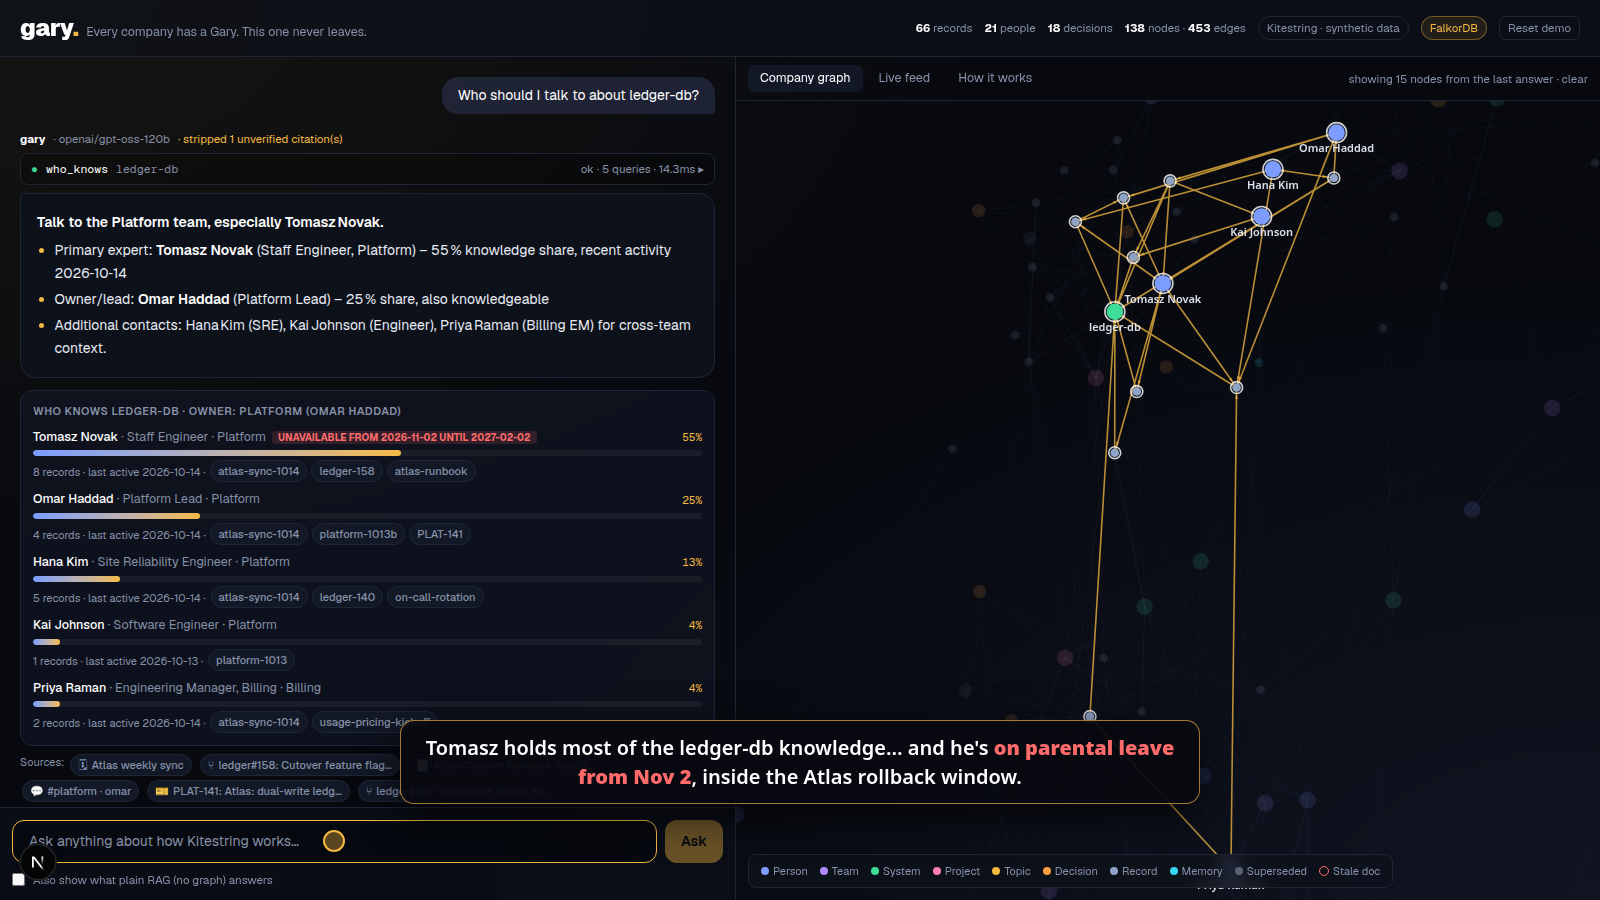
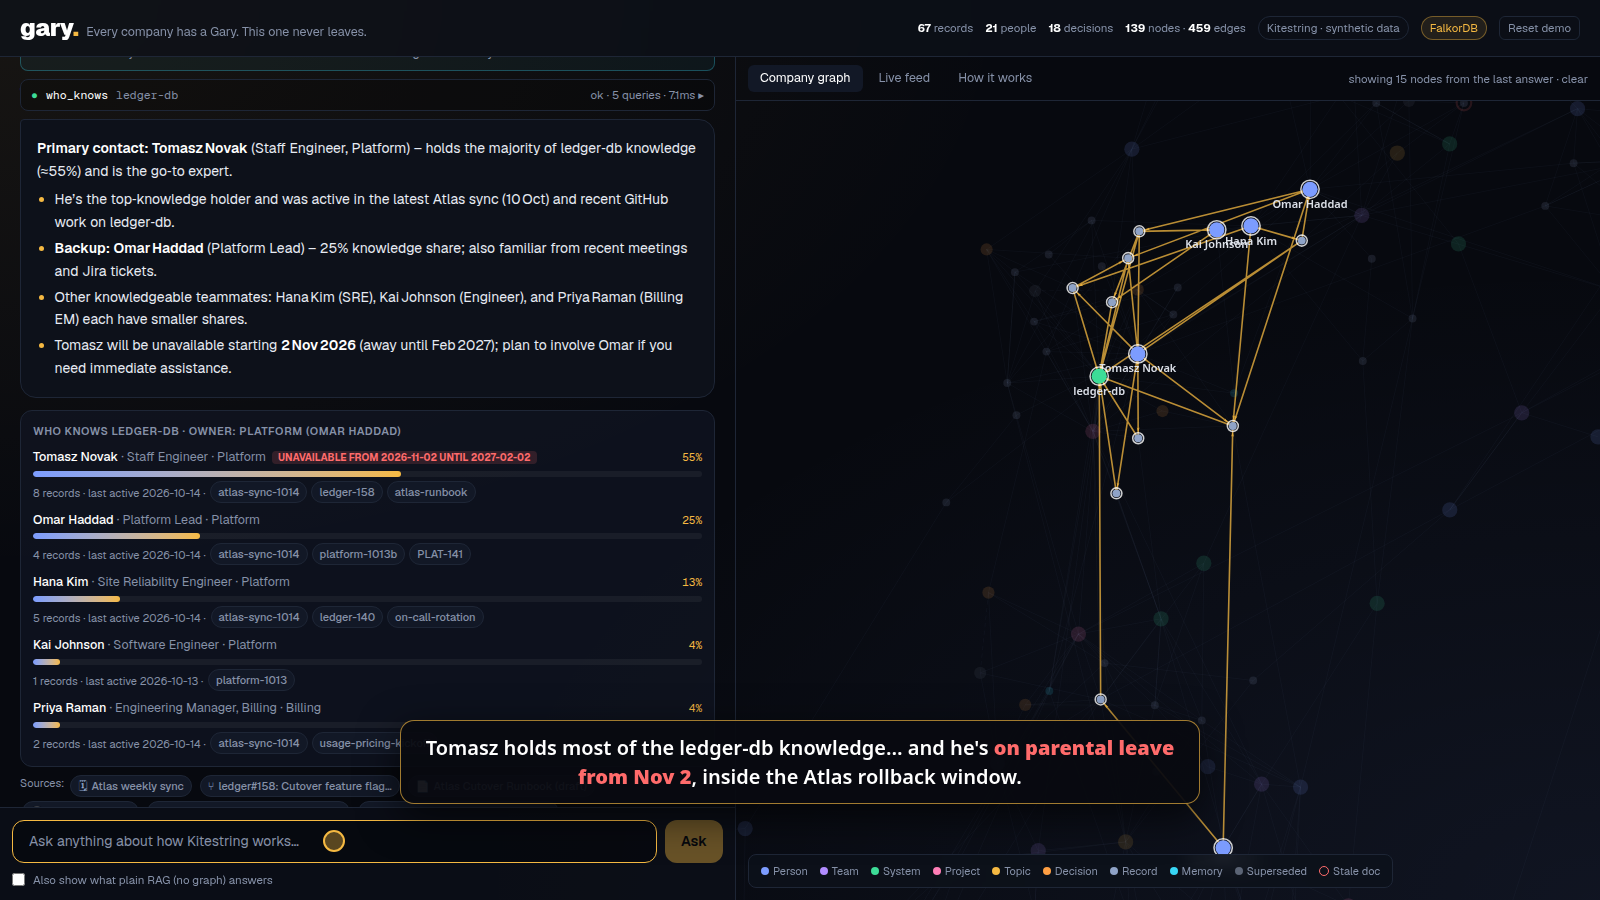
Hallucination guard: reject answers naming people/teams absent from the graph
Citations alone can't catch an invented 'Priya Patel': every capitalised name pair
and hyphenated proper noun must exist in the graph vocabulary or this turn's tool
results, else the answer is rebuilt from graph rows (and the UI says so).
Catch-up and risk radar now return graph-computed backups so the model never
has to guess one.

diff --git a/lib/agent.ts b/lib/agent.ts
@@ -8,7 +8,7 @@ export type AgentEvent =
   | { type: "memory"; memories: Memory[] }
   | { type: "tool"; id: string; name: string; args: Record<string, unknown> }
   | { type: "result"; id: string; name: string; outcome: ToolResult["outcome"]; queries: QueryLog[]; nodes: string[]; data: unknown }
-  | { type: "answer"; text: string; citations: Citation[]; invalidCitations: string[]; model: string; grounded: boolean; nodes: string[] };
+  | { type: "answer"; text: string; citations: Citation[]; invalidCitations: string[]; model: string; grounded: boolean; nodes: string[]; rebuilt: string[] };
 
 export interface Citation {
   key: string;
@@ -31,6 +31,7 @@ Rules:
 - Cite record keys from tool results (evidence, decided_in, key fields such as [github:ledger-158] or [decision:billing-0812c-1]) ONLY in square brackets right after each claim. Never cite tool names or person/team/system keys, e.g. [slack:billing-0812c] [decision:billing-0812c-1]. Never invent keys, people, dates or numbers.
 - If a tool returns unknown_subject, you may retry ONCE with a shorter subject (e.g. one of "similar") or use search. If still nothing, say plainly it is not in the company graph. Never name a team, owner or person that no tool returned.
 - If a recommended person is on_leave/away, say so and name a backup.
+- Only name owners, experts or backups that decision_lineage, who_knows, profile, risk_radar or catch_up returned. Search results are keyword matches: never infer owners or people from them.
 - When a decision replaced older ones, say what changed and when. Flag stale docs that still state old decisions, and name their authors.
 - Only call open_ticket or remember when the user explicitly asks you to act or remember.
 - Be concise: a direct answer first, then 2-5 short bullet points. Plain markdown, no tables.
@@ -45,7 +46,7 @@ export async function* runAgent(question: string, history: Turn[], session: stri
 
   // Memory first: anything Gary learned in earlier sessions about the subjects in this question,
   // flagged if a decision it relied on has since been superseded.
-  const subjects = await subjectsIn(tx, question);
+  const { keys: subjects, vocab: graphVocab } = await subjectsIn(tx, question);
   const memories = await recall(tx, subjects);
   if (memories.length) yield { type: "memory", memories };
   const memoryText = memories.length
@@ -105,10 +106,17 @@ export async function* runAgent(question: string, history: Turn[], session: stri
 
   const allowed = new Set(results.flatMap((r) => r.result.cites));
   let grounded = true;
+  let rebuilt: string[] = [];
   if (!finalText) {
     finalText = composeFromRows(results);
-    grounded = true;
     model = llmFailed ? "graph-only (LLM unavailable)" : model;
+  } else {
+    const vocab = new Set([...graphVocab, ...words(JSON.stringify(results.map((r) => r.result.data))), ...words(question)]);
+    rebuilt = inventedNames(finalText, vocab);
+    if (rebuilt.length) {
+      grounded = false;
+      finalText = composeFromRows(results);
+    }
   }
 
   // Validate: every cited key must come from a tool result in this turn.
@@ -141,13 +149,49 @@ export async function* runAgent(question: string, history: Turn[], session: stri
   if (results.some((r) => r.result.outcome === "ok" && !["open_ticket", "remember"].includes(r.name)))
     await saveEpisode(tx, { session, question, answer: finalText, subjects: [...new Set([...subjects, ...results.flatMap((r) => r.result.nodes.filter((n) => /^(person|team|system|project|topic):/.test(n)))])].slice(0, 6), decisions: valid.filter((k) => k.startsWith("decision:")).concat(nodes.filter((n) => n.startsWith("decision:"))) }).catch(() => {});
 
-  yield { type: "answer", text: finalText.trim(), citations, invalidCitations: invalid, model, grounded, nodes };
+  yield { type: "answer", text: finalText.trim(), citations, invalidCitations: invalid, model, grounded, nodes, rebuilt };
 }
 
-async function subjectsIn(tx: Tracer, question: string): Promise<string[]> {
-  const rows = await tx.ro<{ key: string; name: string; aliases: string[] }>("memory.subjects", `MATCH (n:Entity) WHERE NOT n:Company RETURN n.key AS key, n.name AS name, n.aliases AS aliases`);
+export async function subjectsIn(tx: Tracer, question: string): Promise<{ keys: string[]; vocab: Set<string> }> {
+  const rows = await tx.ro<{ key: string; name: string; aliases: string[]; extra: string | null }>(
+    "memory.subjects",
+    `MATCH (n:Entity) WHERE NOT n:Company RETURN n.key AS key, n.name AS name, n.aliases AS aliases, coalesce(n.role, n.about) AS extra`,
+  );
   const q = question.toLowerCase();
-  return rows.filter((r) => [r.name, ...(r.aliases ?? [])].some((t) => t.length > 2 && new RegExp(`(?<![\\w-])${t.toLowerCase().replace(/[.*+?^${}()|[\]\\]/g, "\\$&")}(?![\\w-])`).test(q))).map((r) => r.key);
+  const keys = rows.filter((r) => [r.name, ...(r.aliases ?? [])].some((t) => t.length > 2 && new RegExp(`(?<![\\w-])${t.toLowerCase().replace(/[.*+?^${}()|[\]\\]/g, "\\$&")}(?![\\w-])`).test(q))).map((r) => r.key);
+  const vocab = new Set(words(rows.map((r) => `${r.name} ${(r.aliases ?? []).join(" ")} ${r.extra ?? ""}`).join(" ")));
+  return { keys, vocab };
+}
+
+const words = (s: string) => s.toLowerCase().match(/[a-z][a-z0-9]+/g) ?? [];
+
+// Plain-English capitalised words that may legitimately start a phrase ("Bottom Line", "Next Steps").
+const COMMON = new Set(
+  `a an the yes no not key points point bottom line next steps step primary secondary contact contacts owner owners owned backup backups current currently policy note notes
+  evidence other others summary short answer answers action actions item items open question questions why what who whom how when where which today tl dr also however therefore
+  so if and or but for with since until from to of on in at by about after before during talk reach ask ping start check update updates use see stale docs doc document
+  documents decision decisions lineage risk risks radar team teams people person expert experts knowledge share records record active replaced superseded monthly annual plans
+  plan refund refunds window days day weeks week months month quick takeaway takeaways overview details detail status timeline history context recommendation recommendations
+  suggested suggestion important warning caveat sources source slack jira notion github meeting meetings ticket tickets thread threads channel help center playbook handbook
+  engineering product follow ups up follow-up you your we our they their he she his her it its this that these those there here is are was were be been being has have had`.split(/\s+/),
+);
+const MONTHS = new Set("january february march april may june july august september october november december jan feb mar apr jun jul aug sep sept oct nov dec monday tuesday wednesday thursday friday saturday sunday".split(" "));
+
+// Guard against invented people/teams: every capitalised name pair (and hyphenated proper noun) must exist in the
+// graph vocabulary or in this turn's tool results. Citations alone can't catch a made-up "Priya Patel".
+export function inventedNames(text: string, vocab: Set<string>): string[] {
+  const clean = text.replace(/\[[^\]]+\]/g, " ").replace(/[*_`#>|]/g, " ");
+  const known = (w: string) => vocab.has(w) || COMMON.has(w) || MONTHS.has(w);
+  const out = new Set<string>();
+  for (const m of clean.matchAll(/\b([A-Z][a-z]+)\s+([A-Z][a-z]+)\b/g)) {
+    const [a, b] = [m[1].toLowerCase(), m[2].toLowerCase()];
+    if (COMMON.has(b) && (COMMON.has(a) || vocab.has(a))) continue;
+    if (!known(a) || !known(b)) out.add(`${m[1]} ${m[2]}`);
+  }
+  for (const m of clean.matchAll(/\b([A-Z][a-z]+(?:-[A-Z][a-z]+)+)\b/g)) {
+    if (m[1].toLowerCase().split("-").some((w) => !known(w))) out.add(m[1]);
+  }
+  return [...out];
 }
 
 function route(q: string): [string, Record<string, unknown>] {

diff --git a/lib/tools.ts b/lib/tools.ts
@@ -283,7 +283,11 @@ async function search(tx: Tracer, { query }: { query: string }): Promise<ToolRes
   );
   return {
     outcome: rows.length ? "ok" : "empty",
-    data: { query, results: rows.map((r) => ({ key: r.key, kind: r.kind, title: r.title, date: day(r.at), author: r.author, excerpt: clip(r.text, 200) })) },
+    data: {
+      query,
+      note: "Keyword matches only. If none of these records directly answers the question, say it is not in the company graph. Never infer owners from them.",
+      results: rows.map((r) => ({ key: r.key, kind: r.kind, title: r.title, date: day(r.at), author: r.author, excerpt: clip(r.text, 200) })),
+    },
     nodes: rows.map((r) => r.key),
     cites: rows.map((r) => r.key),
   };
@@ -321,7 +325,7 @@ async function connect(tx: Tracer, { from, to }: { from: string; to: string }): 
 
 async function riskRadar(tx: Tracer): Promise<ToolResult> {
   // Same expertise weighting as who_knows, for every system/project at once; subjects with little activity are skipped.
-  const concentration = await tx.ro<{ key: string; name: string; top: string; topKey: string; share: number; knowers: number; records: number; awayFrom: number | null }>(
+  const concentration = await tx.ro<{ key: string; name: string; top: string; topKey: string; share: number; knowers: number; records: number; awayFrom: number | null; next: string | null }>(
     "risk.knowledge_concentration",
     `MATCH (s:Entity) WHERE s:System OR s:Project
      MATCH (src:Source)-[:MENTIONS|CHANGES]->(s)
@@ -333,9 +337,9 @@ async function riskRadar(tx: Tracer): Promise<ToolResult> {
      WITH s, p, w, n ORDER BY w DESC
      WITH s, collect({name: p.name, key: p.key, w: w, away: p.away_from}) AS ppl, sum(w) AS total, sum(n) AS records
      WHERE records >= 4
-     WITH s, ppl[0] AS top, total, size(ppl) AS knowers, records
+     WITH s, ppl[0] AS top, ppl[1] AS next, total, size(ppl) AS knowers, records
      WHERE top.w / total >= 0.4
-     RETURN s.key AS key, s.name AS name, top.name AS top, top.key AS topKey, top.w / total AS share, knowers, records, top.away AS awayFrom
+     RETURN s.key AS key, s.name AS name, top.name AS top, top.key AS topKey, top.w / total AS share, knowers, records, top.away AS awayFrom, next.name AS next
      ORDER BY (top.w / total) * CASE WHEN top.away IS NULL THEN 1.0 ELSE 2.0 END DESC LIMIT 5`,
   );
   const brokers = await tx.ro<{ key: string; name: string; score: number }>(
@@ -368,6 +372,7 @@ async function riskRadar(tx: Tracer): Promise<ToolResult> {
         people_involved: c.knowers,
         records: c.records,
         main_knower_away_from: day(c.awayFrom),
+        next_best_knower: c.next,
       })),
       upcoming_absences: away.map((a) => ({ person: a.name, from: day(a.from), to: day(a.to) })),
       knowledge_brokers_betweenness: brokers.map((b) => ({ person: b.name, betweenness: +b.score.toFixed(1) })),

diff --git a/app/page.tsx b/app/page.tsx
@@ -22,7 +22,7 @@ interface Msg {
   text: string;
   steps: Step[];
   memories?: any[];
-  answer?: { citations: Cite[]; model: string; grounded: boolean; invalidCitations: string[] };
+  answer?: { citations: Cite[]; model: string; grounded: boolean; invalidCitations: string[]; rebuilt?: string[] };
   compare?: { text: string; docs: { key: string; title: string }[]; model: string } | "loading";
   pending?: boolean;
 }
@@ -133,7 +133,7 @@ export default function Home() {
             }
             if (ev.type === "answer") {
               ev.citations.forEach((c: Cite) => cites.current.set(c.key, c));
-              patch((m) => ({ ...m, text: ev.text, pending: false, answer: { citations: ev.citations, model: ev.model, grounded: ev.grounded, invalidCitations: ev.invalidCitations } }));
+              patch((m) => ({ ...m, text: ev.text, pending: false, answer: { citations: ev.citations, model: ev.model, grounded: ev.grounded, invalidCitations: ev.invalidCitations, rebuilt: ev.rebuilt } }));
               setHighlight(ev.nodes);
             }
             if (ev.type === "error") patch((m) => ({ ...m, text: `Something went wrong: ${ev.message}`, pending: false }));
@@ -227,7 +227,11 @@ export default function Home() {
                     {m.answer && (
                       <>
                         <span>· {m.answer.model}</span>
-                        <span className={m.answer.grounded ? "text-good" : "text-accent"}>· {m.answer.grounded ? "✓ all citations verified against the graph" : `stripped ${m.answer.invalidCitations.length} unverified citation(s)`}</span>
+                        {m.answer.rebuilt?.length ? (
+                          <span className="text-accent">· ⚠ model named {m.answer.rebuilt.join(", ")} (not in the graph), so the answer was rebuilt from graph rows</span>
+                        ) : (
+                          <span className={m.answer.grounded ? "text-good" : "text-accent"}>· {m.answer.grounded ? "✓ all citations verified against the graph" : `stripped ${m.answer.invalidCitations.length} unverified citation(s)`}</span>
+                        )}
                       </>
                     )}
                   </div>

diff --git a/lib/catchup.ts b/lib/catchup.ts
@@ -64,6 +64,24 @@ export async function catchUp(tx: Tracer, args: { since?: string; days?: number;
     { since: sinceMs },
   );
 
+  // Backups come from the graph, not the model: the next-best knowers on what each absent person works on most.
+  const backups = new Map<string, { subject: string; backups: string[] }[]>();
+  for (const a of absences) {
+    const rows = await tx.ro<{ subject: string; backups: string[] }>(
+      "catch_up.backups",
+      `MATCH (p:Person {key:$k})-[:AUTHORED|ASSIGNED|REVIEWED]->(src:Source)-[:MENTIONS|CHANGES]->(s)
+       WHERE s:System OR s:Project
+       WITH p, s, count(DISTINCT src) AS n ORDER BY n DESC LIMIT 2
+       MATCH (o:Person)-[:AUTHORED|ASSIGNED|REVIEWED|ATTENDED|REPORTED]->(src2:Source)-[:MENTIONS|CHANGES]->(s)
+       WHERE o <> p
+       WITH s, o, count(DISTINCT src2) AS m ORDER BY m DESC
+       WITH s, collect(o.name)[0..2] AS backups
+       RETURN s.name AS subject, backups`,
+      { k: a.key },
+    );
+    backups.set(a.key, rows);
+  }
+
   return {
     outcome: decisions.length || tickets.length ? "ok" : "empty",
     data: {
@@ -80,7 +98,7 @@ export async function catchUp(tx: Tracer, args: { since?: string; days?: number;
         decided_in: d.src,
       })),
       open_tickets: tickets,
-      people_going_away: absences.map((a) => ({ person: a.name, from: day(a.from), to: day(a.to) })),
+      people_going_away: absences.map((a) => ({ person: a.name, from: day(a.from), to: day(a.to), suggested_backups_by_subject: backups.get(a.key) ?? [] })),
     },
     nodes: [...(person ? [person.key] : []), ...decisions.flatMap((d) => [d.key, ...d.aboutKeys]), ...tickets.map((t) => t.key), ...absences.map((a) => a.key)],
     cites: [...decisions.map((d) => d.key), ...decisions.map((d) => d.src).filter((s): s is string => !!s), ...tickets.map((t) => t.key)],

diff --git a/app/components/Cards.tsx b/app/components/Cards.tsx
@@ -127,7 +127,10 @@ export function ToolCards({ name, data, onCite, onAsk }: { name: string; data: a
           {data.single_points_of_knowledge?.map((r: any) => (
             <div key={r.key} className="flex flex-wrap items-center gap-1.5">
               <span className="font-medium text-white">{r.subject}</span>
-              <span className="text-muted">→ {r.main_knower} holds {r.share}</span>
+              <span className="text-muted">
+                → {r.main_knower} holds {r.share}
+                {r.next_best_knower ? `, next: ${r.next_best_knower}` : ""}
+              </span>
               {r.main_knower_away_from && <span className="rounded bg-bad/15 px-1.5 text-[10px] font-bold text-bad">AWAY FROM {r.main_knower_away_from}</span>}
             </div>
           ))}
@@ -172,7 +175,12 @@ export function ToolCards({ name, data, onCite, onAsk }: { name: string; data: a
             </div>
           )}
           {data.people_going_away?.length > 0 && (
-            <div className="text-[11.5px] text-muted">Going away: {data.people_going_away.map((a: any) => `${a.person} from ${a.from}`).join(" · ")}</div>
+            <div className="text-[11.5px] text-muted">
+              Going away:{" "}
+              {data.people_going_away
+                .map((a: any) => `${a.person} from ${a.from}${a.suggested_backups_by_subject?.length ? ` (backups: ${a.suggested_backups_by_subject.map((b: any) => `${b.subject} → ${b.backups.join(", ")}`).join("; ")})` : ""}`)
+                .join(" · ")}
+            </div>
           )}
         </div>
       </Box>

diff --git a/scripts/ask.ts b/scripts/ask.ts
@@ -10,7 +10,7 @@ async function main() {
     if (ev.type === "tool") console.log(`🔧 ${ev.name}(${JSON.stringify(ev.args)})`);
     if (ev.type === "result") console.log(`   → ${ev.outcome}: ${ev.queries.map((q) => `${q.label} ${q.rows}r ${q.ms}ms`).join(" | ")}`);
     if (ev.type === "answer") {
-      console.log(`\n💬 [${ev.model}${ev.grounded ? "" : ", ungrounded citations stripped: " + ev.invalidCitations.join(",")}]\n${ev.text}`);
+      console.log(`\n💬 [${ev.model}${ev.rebuilt.length ? ", REBUILT (invented: " + ev.rebuilt.join(", ") + ")" : ""}${ev.invalidCitations.length ? ", stripped: " + ev.invalidCitations.join(",") : ""}]\n${ev.text}`);
       console.log("\n📎", ev.citations.map((c) => `${c.key} (${c.kind})`).join(", "));
     }
   }

diff --git a/README.md b/README.md
@@ -36,7 +36,7 @@ Every one of these is about **relationships, not text**. A vector index cannot k
 | **Knowledge from multiple sources** | 5 connectors (Slack, Jira, Notion + help center, meetings, GitHub) become `Source` nodes. Authors, reviewers, assignees and attendees become edges. Mentions are linked with a gazetteer read *from the graph itself*. |
 | **Ownership and expertise** | `who_knows` ranks people by recency-weighted, role-weighted traversal (`AUTHORED`, `ASSIGNED`, `REVIEWED`...) and also returns the owning team and lead. It flags people who are about to be on leave. |
 | **Decision lineage** | Decisions are extracted with *graph context* (the LLM sees the currently active decisions) into `(:Decision)-[:SUPERSEDES]->(:Decision)` chains with `DECIDED_IN`, `MADE` and `BECAUSE_OF` edges, traversed with `SUPERSEDES*1..6`. |
-| **Current knowledge** | The live feed ingests a new message. If it contains a decision, older ones are superseded and **every living doc that still `ASSERTS` the old decision is flagged stale**. Memories that relied on it are flagged **outdated**. |
+| **Current knowledge** | `catch_up` answers "what did I miss since…" per person. The live feed ingests a new message. If it contains a decision, older ones are superseded and **every living doc that still `ASSERTS` the old decision is flagged stale**. Memories that relied on it are flagged **outdated**. |
 | **Sourced answers** | Every citation in the answer must be a key returned by a tool in this turn; anything else is stripped. Each answer shows the exact Cypher, params, row counts and timings. |
 
 **Plus:**
@@ -53,7 +53,8 @@ Every one of these is about **relationships, not text**. A vector index cannot k
 4. **"What are our biggest knowledge risks right now?"** Knowledge concentration per system/project, upcoming absences, betweenness-central knowledge brokers and stale docs.
 5. **"Why is usage-based pricing launching Dec 1?"** Multi-hop: Dec 1 replaced Nov 15 because the Atlas ledger cutover is Oct 28, which moved there because of the SOC2 audit change freeze.
 6. **Live feed:** post the preset "CEO changes the refund policy again". Gary extracts a new decision and supersedes the 14-day one. Ask question 1 again: the old memories are marked **OUTDATED** and the answer changes.
-7. **"Who owns the mobile app?"** The answer is **not in the graph**. Gary resolves names strictly, so "mobile app" never silently becomes `web-app`.
+7. **"I'm Priya, back from 3 weeks off. What did I miss?"** `catch_up` scopes recent decisions, reversals, open tickets and absences to Priya's part of the graph (what her team owns and what she has touched).
+8. **"Who owns the mobile app?"** The answer is **not in the graph**. Gary resolves names strictly, so "mobile app" never silently becomes `web-app`.
 
 ## Architecture
 
@@ -65,7 +66,7 @@ Every one of these is about **relationships, not text**. A vector index cannot k
  GitHub ┘   LLM decision extraction  ◄─context── │ Doc ─ASSERTS─► Decision  Finding (mem) │
             (active decisions from the graph)    └────────────▲───────────────────────────┘
                                                               │ parameterised Cypher only
- Question ─► memory recall ─► LLM picks tool(s) ─► Tool catalogue (9) ─► rows ─► answer
+ Question ─► memory recall ─► LLM picks tool(s) ─► Tool catalogue (10) ─► rows ─► answer
                                                    + citation validation + graph highlight
 ```
 
@@ -76,7 +77,7 @@ Every one of these is about **relationships, not text**. A vector index cannot k
 - **MCP:** `@modelcontextprotocol/sdk` stdio server in `mcp/server.ts`.
 
 ### Design rules (borrowed from the organisers' "agent that reasons over a graph" guide)
-- **No model-written Cypher.** The model chooses from 9 fixed, parameterised tools.
+- **No model-written Cypher.** The model chooses from 10 fixed, parameterised tools.
 - **Resolve before reasoning.** Names are matched against the graph (exact → alias → full-text with ≥50% word coverage). Unknown means *unknown_subject*, never a guess.
 - **Answers carry their path.** Citations are validated against tool output, and the UI shows every query.
 - **Memory is just nodes**, linked to what it is about, with timestamps, so it can go stale with the graph.
